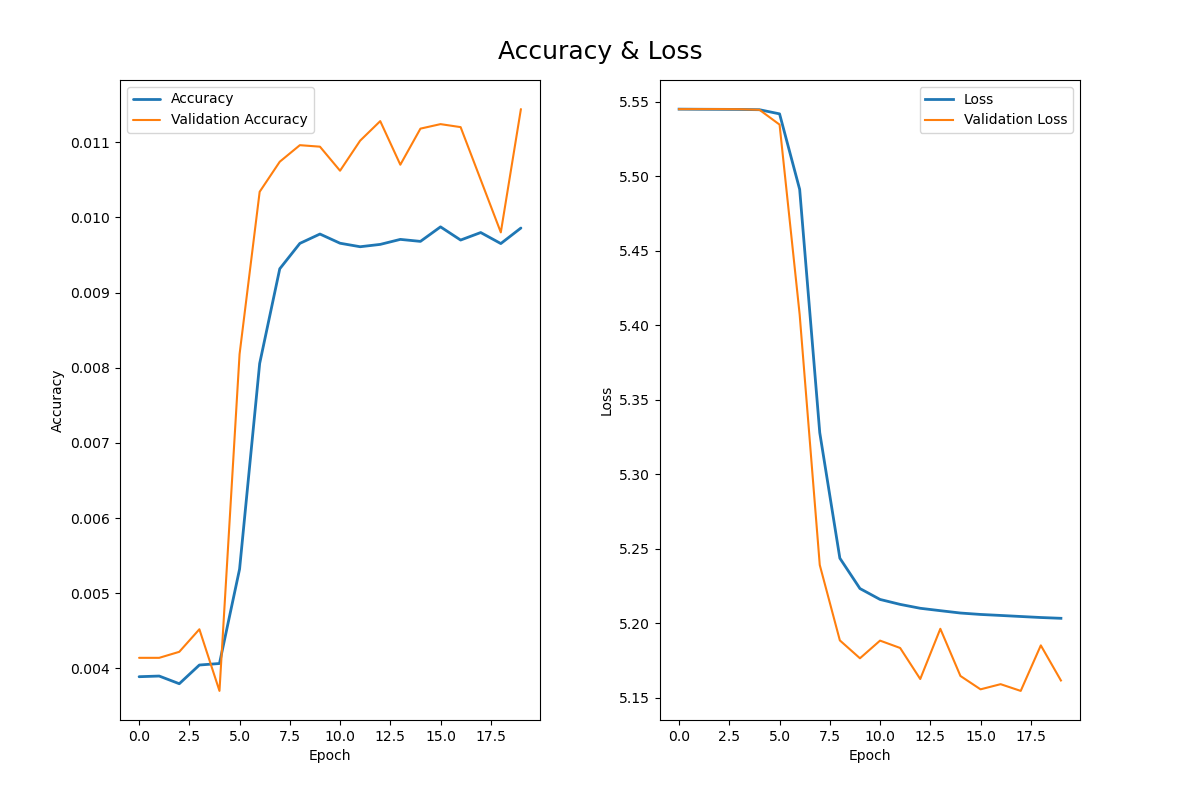
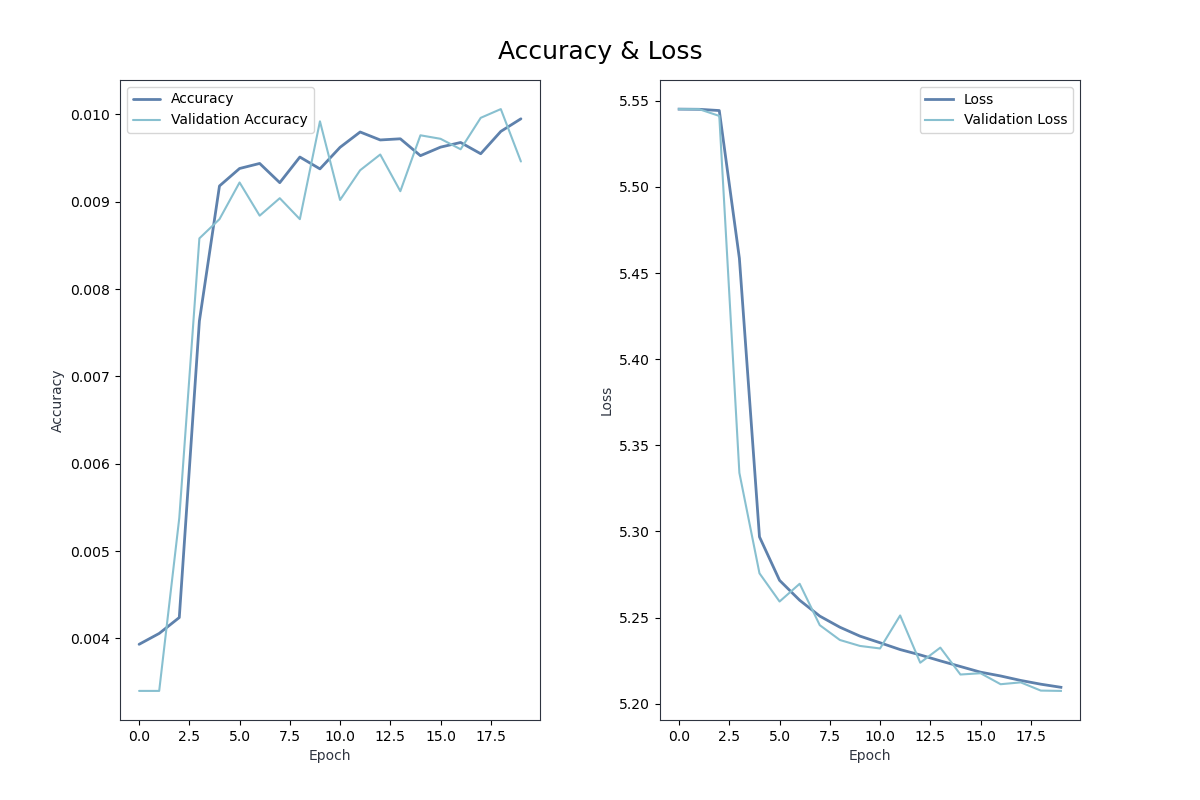
History log plots.

diff --git a/plots/plots_in_report/history_log_plots.py b/plots/plots_in_report/history_log_plots.py
@@ -1,0 +1,122 @@
+"""Plots for report."""
+from configs.variables import REPORT_DIR
+from plots.history_log_plots import plot_history_log__overview_trace_process
+
+if __name__ == '__main__':
+    # History log plots
+    plot_history_log__overview_trace_process(
+        training_dataset_id=3, # observe 1 or 3   !!!!!!!!!!!!!TODO
+        trace_process_id=3,
+        save_path=REPORT_DIR,
+        file_format="pgf",
+        # show=True,
+        last_gaussian=5,
+        last_collected=9,
+        last_rayleigh=11,
+        nrows=4,
+        ncols=4,
+    )
+
+    plot_history_log__overview_trace_process(
+        training_dataset_id=3,
+        trace_process_id=4,
+        save_path=REPORT_DIR,
+        file_format="pgf",
+        # show=True,
+        last_gaussian=5,
+        last_collected=9,
+        last_rayleigh=11,
+        nrows=4,
+        ncols=4,
+    )
+
+    plot_history_log__overview_trace_process(
+        training_dataset_id=3,
+        trace_process_id=5,
+        save_path=REPORT_DIR,
+        file_format="pgf",
+        # show=True,
+        last_gaussian=5,
+        last_collected=9,
+        last_rayleigh=11,
+        nrows=4,
+        ncols=4,
+    )
+
+    plot_history_log__overview_trace_process(
+        training_dataset_id=3,
+        trace_process_id=6,
+        save_path=REPORT_DIR,
+        file_format="pgf",
+        # show=True,
+        last_gaussian=5,
+        last_collected=9,
+        last_rayleigh=11,
+        nrows=4,
+        ncols=4,
+    )
+
+    plot_history_log__overview_trace_process(
+        training_dataset_id=3,
+        trace_process_id=7,
+        save_path=REPORT_DIR,
+        file_format="pgf",
+        # show=True,
+        last_gaussian=5,
+        last_collected=9,
+        last_rayleigh=11,
+        nrows=4,
+        ncols=4,
+    )
+
+    plot_history_log__overview_trace_process(
+        training_dataset_id=3,
+        trace_process_id=8,
+        save_path=REPORT_DIR,
+        file_format="pgf",
+        # show=True,
+        last_gaussian=5,
+        last_collected=9,
+        last_rayleigh=11,
+        nrows=4,
+        ncols=4,
+    )
+
+    plot_history_log__overview_trace_process(
+        training_dataset_id=3,
+        trace_process_id=9,
+        save_path=REPORT_DIR,
+        file_format="pgf",
+        # show=True,
+        last_gaussian=5,
+        last_collected=9,
+        last_rayleigh=11,
+        nrows=4,
+        ncols=4,
+    )
+
+    plot_history_log__overview_trace_process(
+        training_dataset_id=3,
+        trace_process_id=10,
+        save_path=REPORT_DIR,
+        file_format="pgf",
+        # show=True,
+        last_gaussian=5,
+        last_collected=9,
+        last_rayleigh=11,
+        nrows=4,
+        ncols=4,
+    )
+
+    plot_history_log__overview_trace_process(
+        training_dataset_id=3,
+        trace_process_id=11,
+        save_path=REPORT_DIR,
+        file_format="pgf",
+        # show=True,
+        last_gaussian=5,
+        last_collected=9,
+        last_rayleigh=11,
+        nrows=4,
+        ncols=4,
+    )
